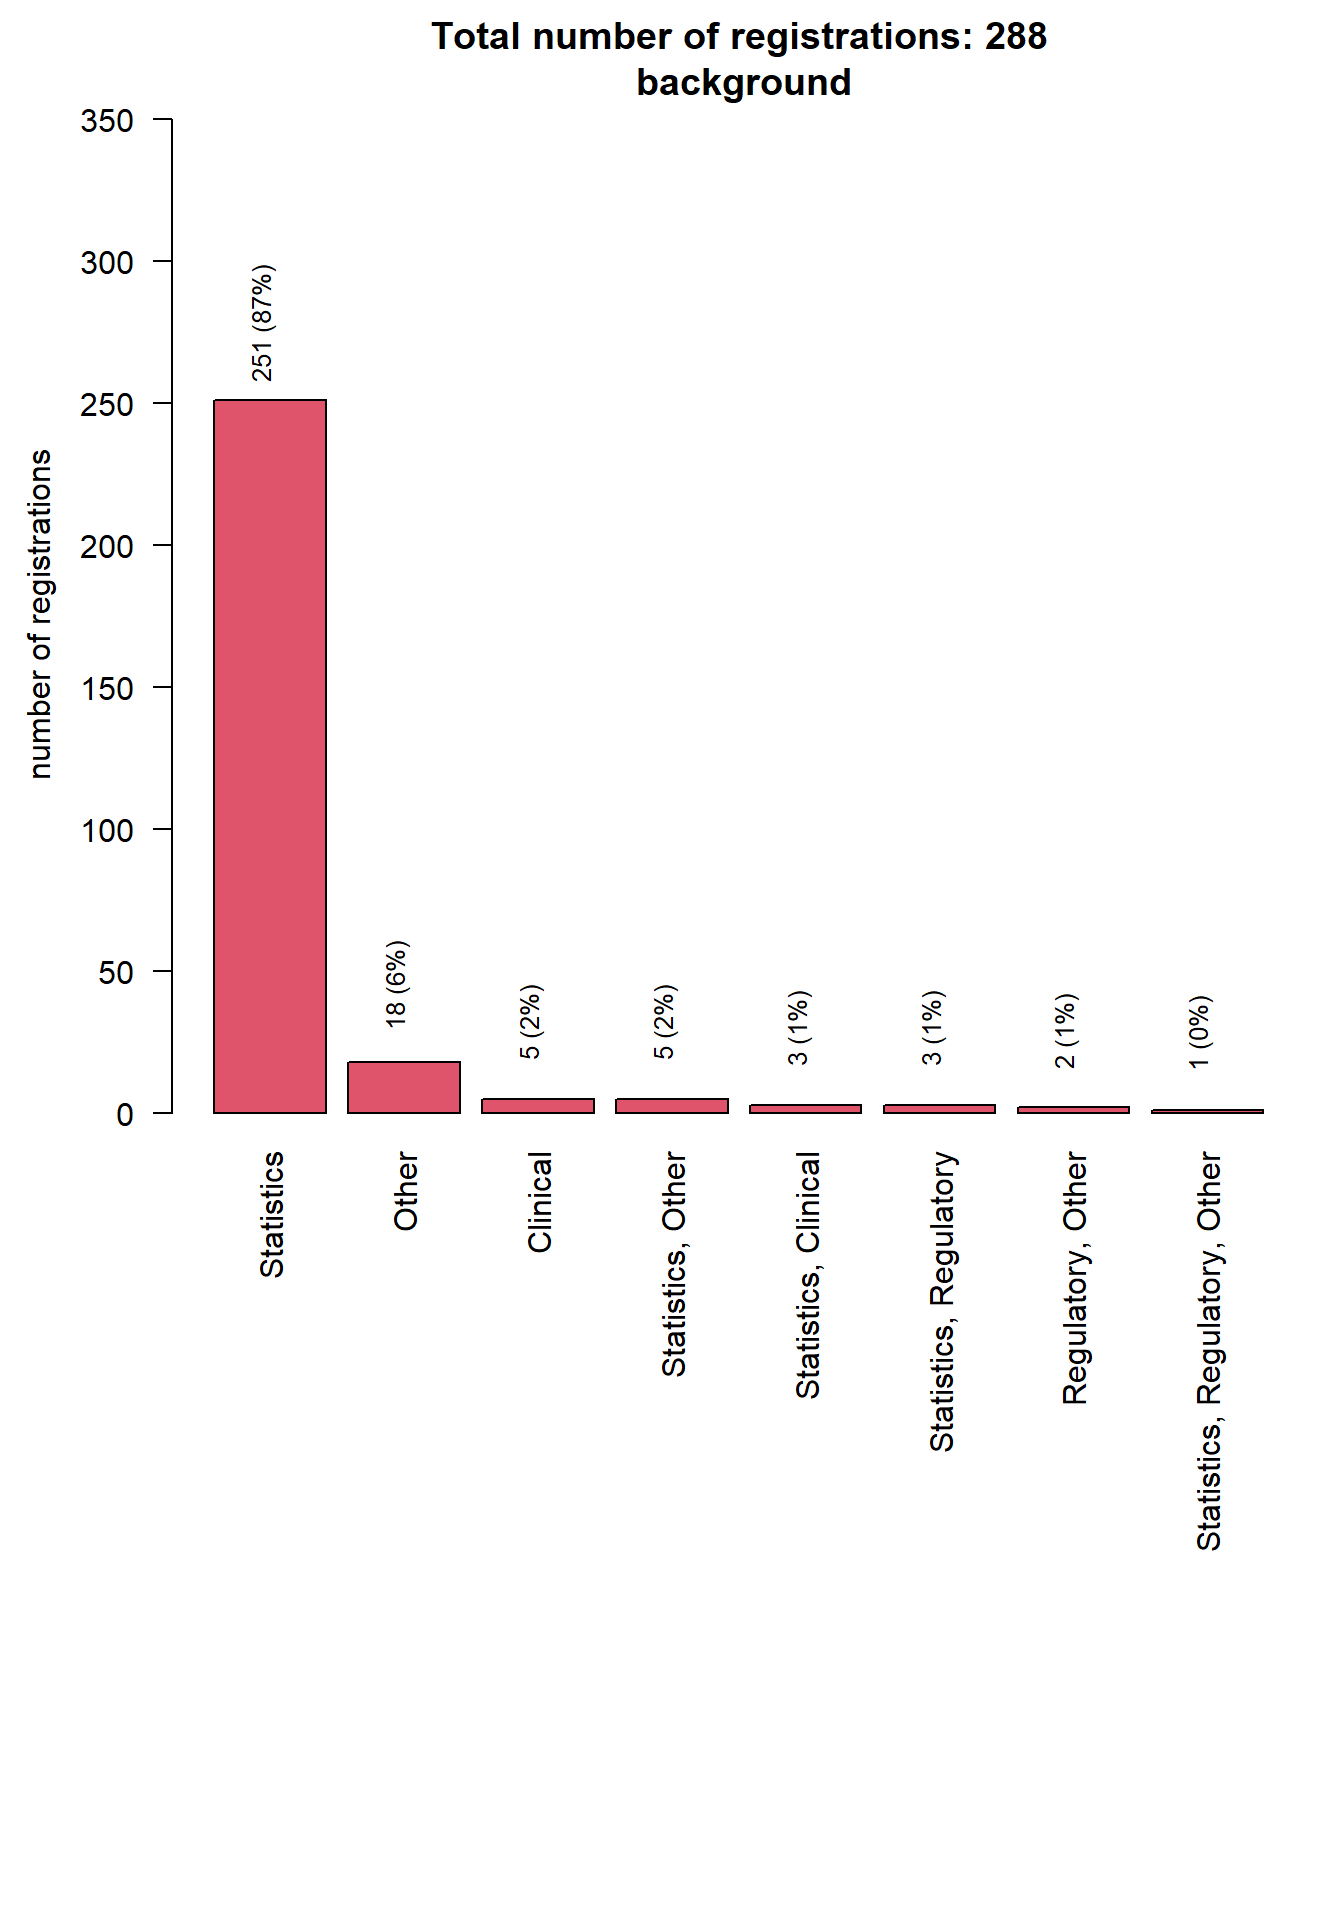
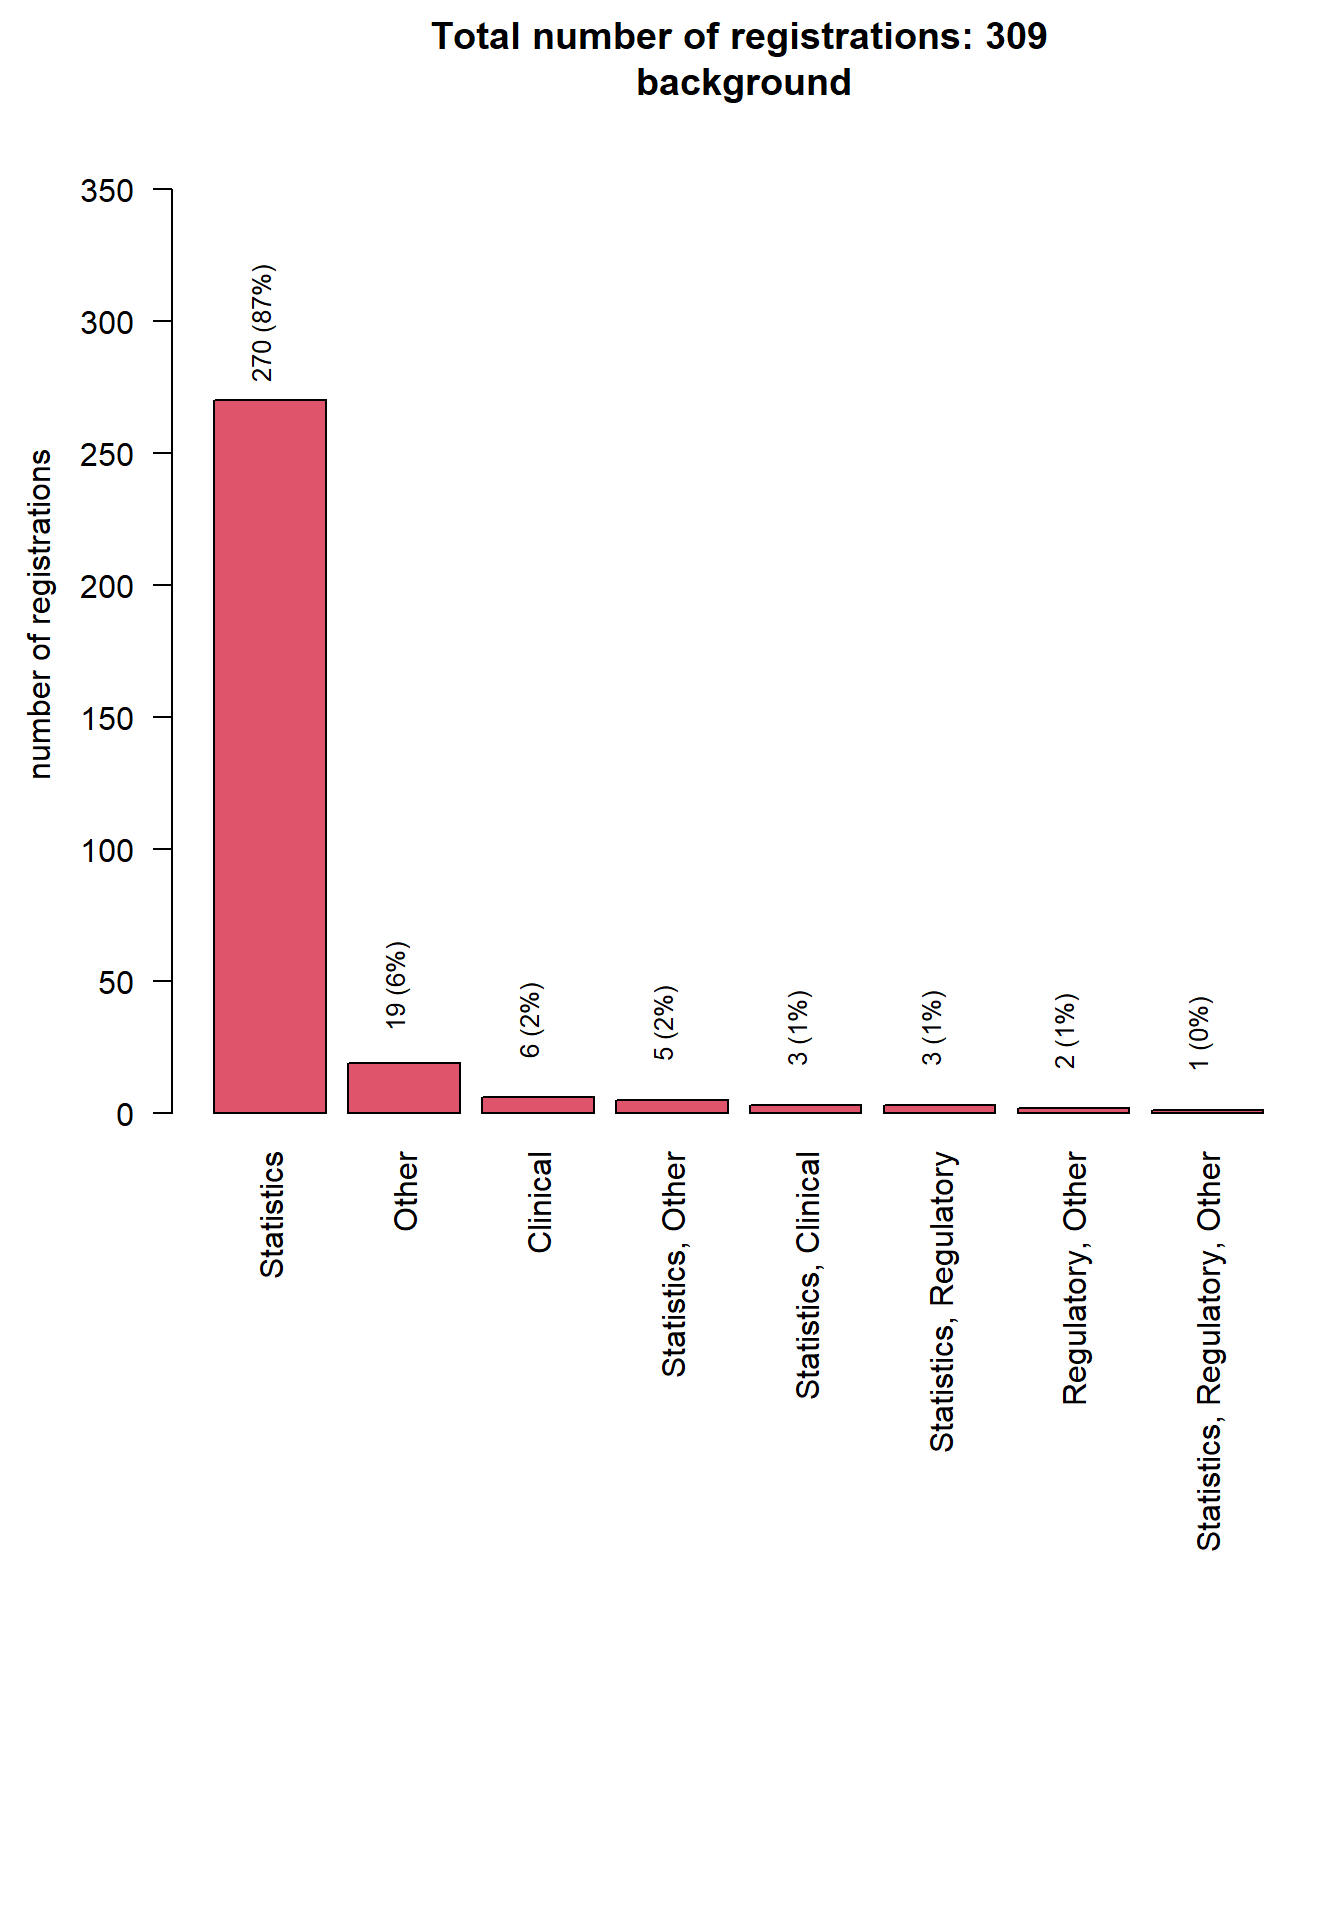
update

diff --git a/docs/upcoming/20230412/20230412_analysis.html b/docs/upcoming/20230412/20230412_analysis.html
@@ -187,7 +187,7 @@ ul.task-list li input[type="checkbox"] {
 
 <section id="data-status" class="level1">
 <h1>Data status</h1>
-<p>Data as of 2023-03-26 at 19:29:44.</p>
+<p>Data as of 2023-03-29 at 17:41:00.</p>
 </section>
 <section id="registrations-by-type-of-institution" class="level1">
 <h1>Registrations by type of institution</h1>
